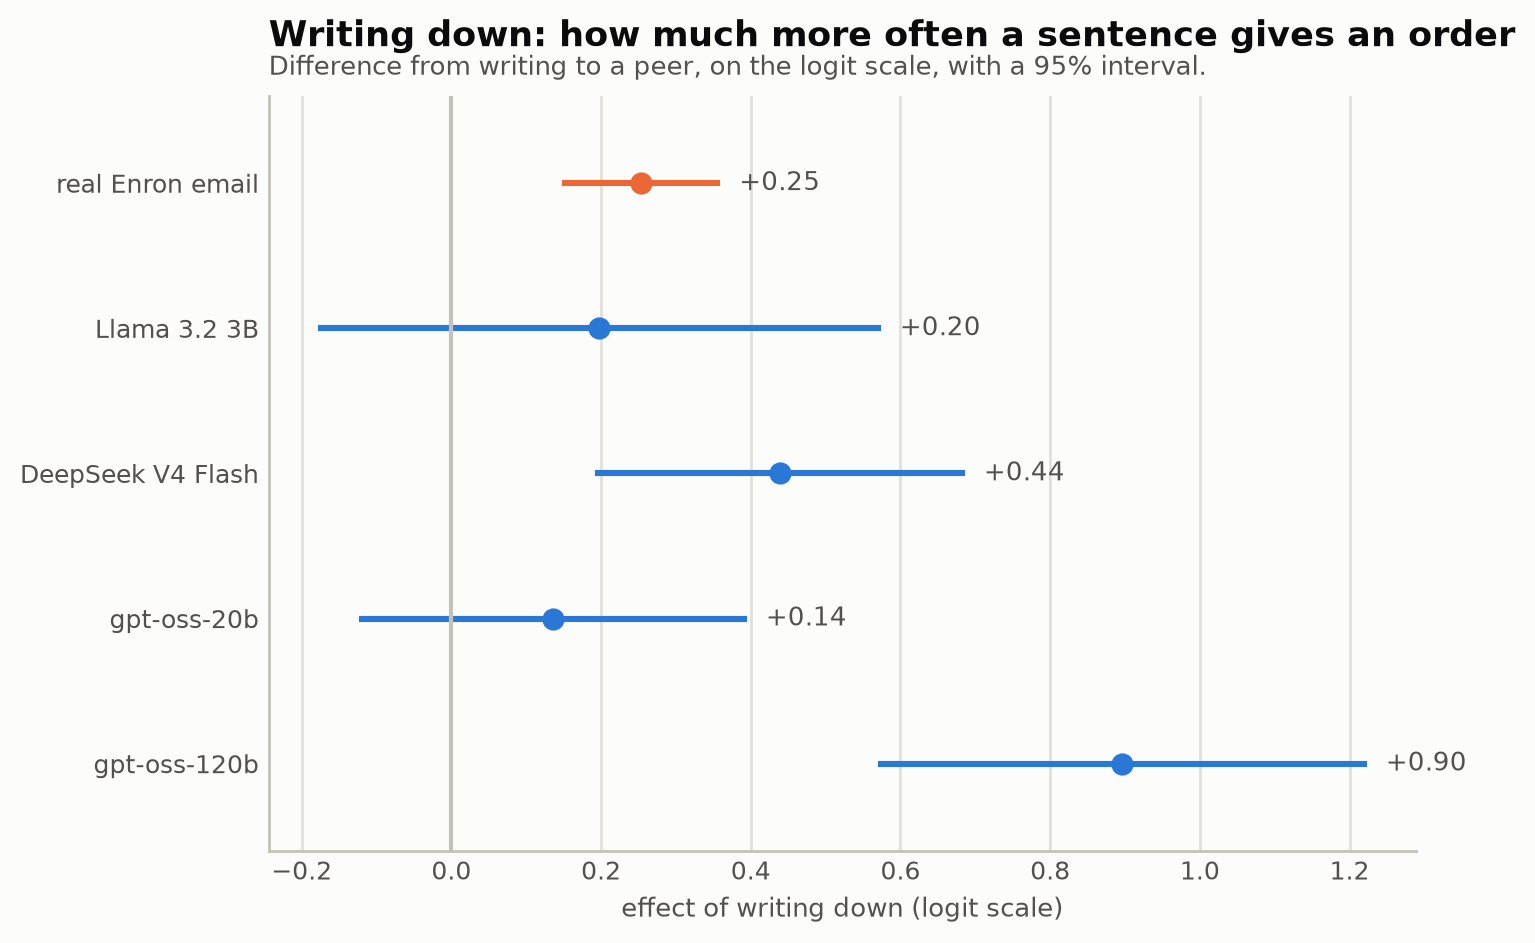
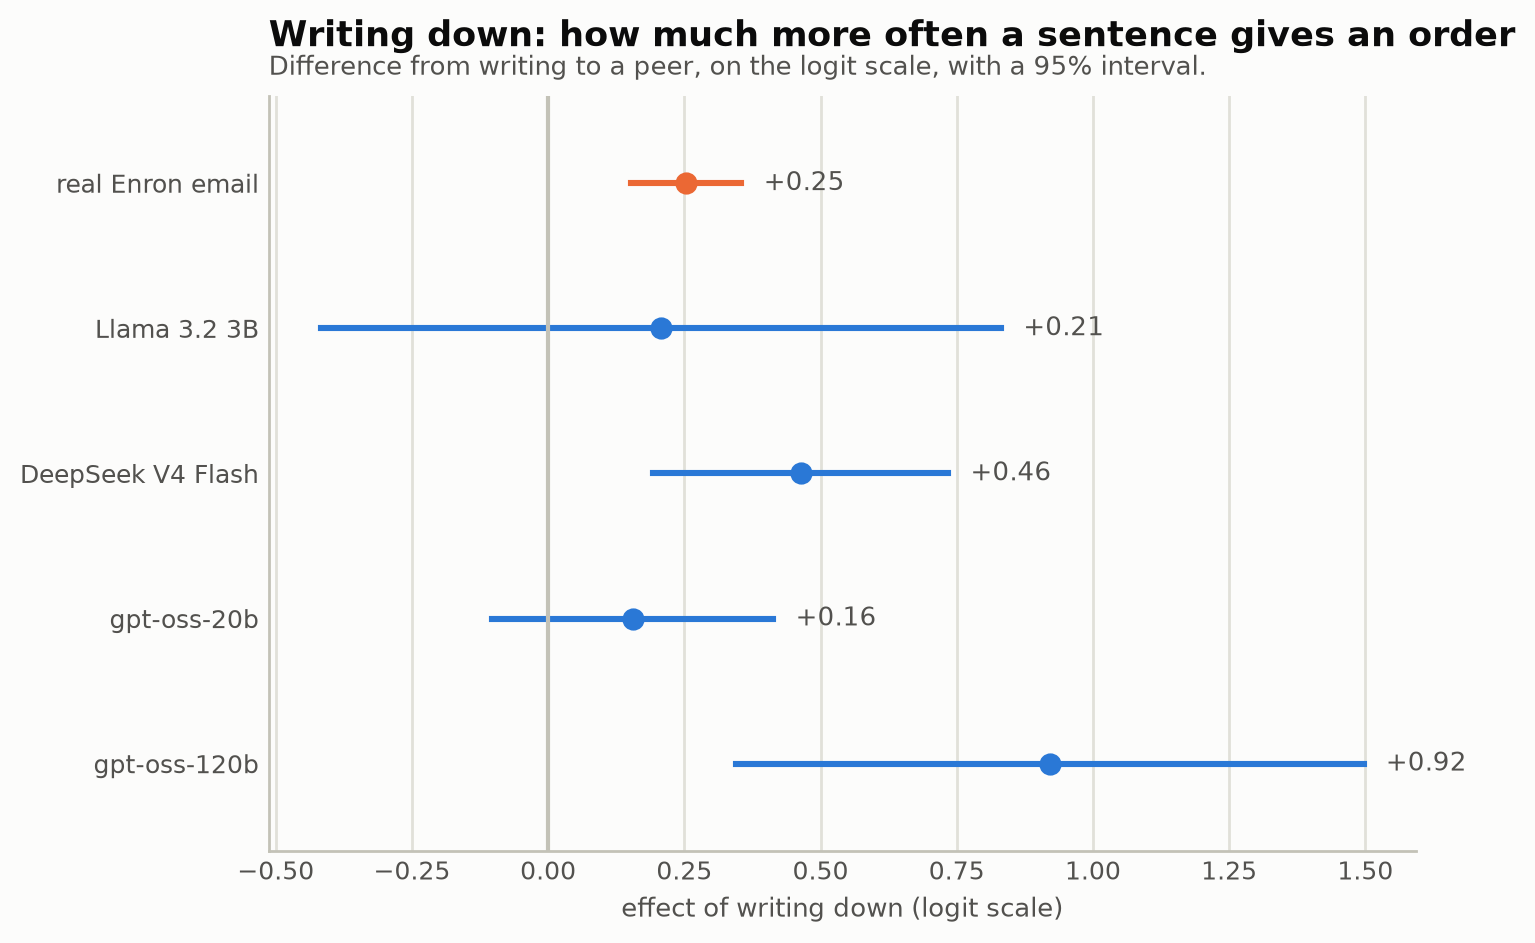
Q1: regenerate the four-model comparison with the persona-clustered fit
Reran python -m thesis.analysis.q1_models on the four saved grids
(commit 85e833a added the clustered fit; this just calls it). New
headline numbers, coefficient / p / 95% interval:

  real email    +0.253  <.001  [+0.15, +0.35]  (unchanged)
  DeepSeek      +0.464  .001   [+0.19, +0.73]
  gpt-oss-120b  +0.921  .002   [+0.35, +1.50]
  Llama 3.2 3B  +0.207  .515   [-0.42, +0.83]
  gpt-oss-20b   +0.155  .239   [-0.10, +0.41]

gpt-oss-120b p=.002 lines up with last session's manual
persona-clustered/bootstrap check (p approx .001) -- the code now
reproduces that check on its own, for all four models, not just the
one that got a manual pass.

PROGRESS_llms.md: replaced the old rough, p-value-derived intervals in
the "all models side by side" section with these, and added a note
that the earlier "vs real email" tables in the same section still use
the older VB fit (a separate, larger rewrite, not done here). Also
corrected the q1_models.py bug list: the grid-loader cache-count bug is
fixed; the manifest-level prompt-hash gap is not.

diff --git a/PROGRESS_llms.md b/PROGRESS_llms.md
@@ -570,32 +570,45 @@ whatever its p-value says.
 that a sentence gives an order, writing down against writing to a peer. Real
 email's +0.253 moves the chance from 14.2% to 17.5%, so a bigger number means
 a bigger jump. Each line is a 95% interval. An interval that crosses zero
-means the grid cannot show the effect. The intervals are rough: the standard
-errors are backed out of the p-values, and for gpt-oss-120b that means the
-plotted interval is too narrow, for the reason given above. Its honest
-interval, from a persona bootstrap, is +0.42 to +1.47, wider than the figure
-shows.
+means the grid cannot show the effect. This figure and its intervals are
+regenerated with the persona-clustered fit (commit `85e833a`), not the
+variational-Bayes fit the "vs real email" tables above still use, so
+numbers here differ slightly from the "orders per sentence" rows in those
+tables -- same effect, two different standard errors.
+
+| | coefficient | p | 95% interval |
+|---|---:|---:|---:|
+| Real email | +0.253 | <.001 | [+0.15, +0.35] |
+| DeepSeek V4 Flash | +0.464 | .001 | [+0.19, +0.73] |
+| gpt-oss-120b | +0.921 | .002 | [+0.35, +1.50] |
+| Llama 3.2 3B | +0.207 | .515 | [-0.42, +0.83] |
+| gpt-oss-20b | +0.155 | .239 | [-0.10, +0.41] |
 
 ![Effect of writing down on the chance that a sentence gives an order, with a 95% interval, for real email and four models.](docs/figures/q1_models_all_writing_down.png)
 
 - **DeepSeek's and gpt-oss-120b's intervals stay clear of zero.** DeepSeek
-  runs from +0.20 to +0.68 and also contains the real +0.25. gpt-oss-120b, on
-  its honest interval, runs from +0.42 to +1.47 and also contains the real
-  +0.25, but only just at the top of real email's own interval.
+  runs from +0.19 to +0.73 and also contains the real +0.25. gpt-oss-120b
+  runs from +0.35 to +1.50 and also contains the real +0.25, but only just
+  at the bottom of its own interval, which is the top of real email's own
+  interval.
 - **Llama's and gpt-oss-20b's intervals cross zero.** The grids are too
   small to say either model shows an effect at all, let alone whether it
   differs from real email.
-- **gpt-oss-20b's interval runs from -0.12 to +0.39.** It has about as many
-  sentences as DeepSeek and an interval of nearly the same width (0.51
-  against 0.48). It sits lower, and it crosses zero.
+- **gpt-oss-20b's interval runs from -0.10 to +0.41.** It has about as many
+  sentences as DeepSeek and an interval of nearly the same width (0.52
+  against 0.54). It sits lower, and it crosses zero.
 
 **Caveats.**
 
 - One reply per cell, 10 personas. In the reply-level model the persona
   variance is 0 for both grids, so the model works like a plain regression;
   the fit warns it sits at the edge of its range.
-- The sentence-level p-values are approximate (a Wald test from a
-  variational Bayes fit).
+- The "vs real email" tables above still use the variational-Bayes
+  sentence-level p-value, which is approximate (a Wald test from that fit)
+  and understates uncertainty on a large effect -- see the gpt-oss-120b
+  footnote earlier in this section. The persona-clustered fit table just
+  above does not have this problem, but has not been substituted into
+  those earlier tables yet.
 - The DeepSeek grid has 238 replies, not 240: 2 came back without valid
   JSON, one writing up and one writing down. The gpt-oss-20b grid also has
   238: one lateral and one writing up.
@@ -652,10 +665,14 @@ public so both modules share one formula.
 
 **The model comparison.** `analysis/q1_models.py` takes one `--grid
 LABEL=PATH` per model and writes one manifest and one figure, named by
-`--manifest` and `--figure-prefix`. It calls no model. Two known bugs, not yet
-fixed: it does not write the prompt hash into its own manifest, and its grid
-loader marks every row "from cache" regardless of how the grid was actually
-generated.
+`--manifest` and `--figure-prefix`. It calls no model. Its grid loader used
+to mark every row "from cache" regardless of how the grid was actually
+generated -- fixed, commit `36fbc3e`. One small gap remains: each grid it
+loads now carries a `prompt_text_hash` (commit `5ee4b46`), but
+`q1_models.py`'s own output manifest (the JSON this command writes) does not
+copy that hash into its per-model entries yet, so checking a grid's prompt
+still means opening the grid file itself rather than the comparison
+manifest.
 
 ```
 python -m thesis.analysis.q1 --nvidia openai/gpt-oss-20b@low \
@@ -688,15 +705,17 @@ be items 1 and 3 here (item 3 bundled two separate fixes).
   variational-Bayes fit that understated uncertainty. `q1_models.py` reports
   the clustered coefficient/p/interval as the headline numbers now, with the
   VB ones kept alongside as `coefficient_vb`/`p_vb`. Commit `85e833a`. The
-  four-model table above has not been regenerated with this fit yet, so it
-  still shows the one-off manual check from last session, for gpt-oss-120b
-  only — rerunning `q1_models.py` on all four grids is the next step for
-  this item, not done here.
+  four-model table and figure in the Q1 section above are now regenerated
+  with this fit. The "vs real email" tables further up that section still
+  use the older VB fit -- rewriting those, and the length-matched
+  comparison, are separate, larger steps (see items below).
 - **The prompt hash is now written into every saved Q1 grid.** `Q1Grid`
   carries `prompt_text_hash`, also saved as a column on the grid's parquet
   file, so a saved grid records which prompt made it instead of needing a
   by-hand check. A grid saved before this fix reads back as `"unknown"`
-  rather than raising. Commit `5ee4b46`.
+  rather than raising. Commit `5ee4b46`. One small gap remains:
+  `q1_models.py`'s own output manifest does not copy this hash into its
+  per-model entries yet, so checking it still means opening the grid file.
 - **`q1_models.py`'s grid loader no longer marks every row "from cache".**
   `load_grid` now counts the real split from the `from_cache` column every
   row already carries, instead of hard-coding `n_from_cache=len(frame)`.
